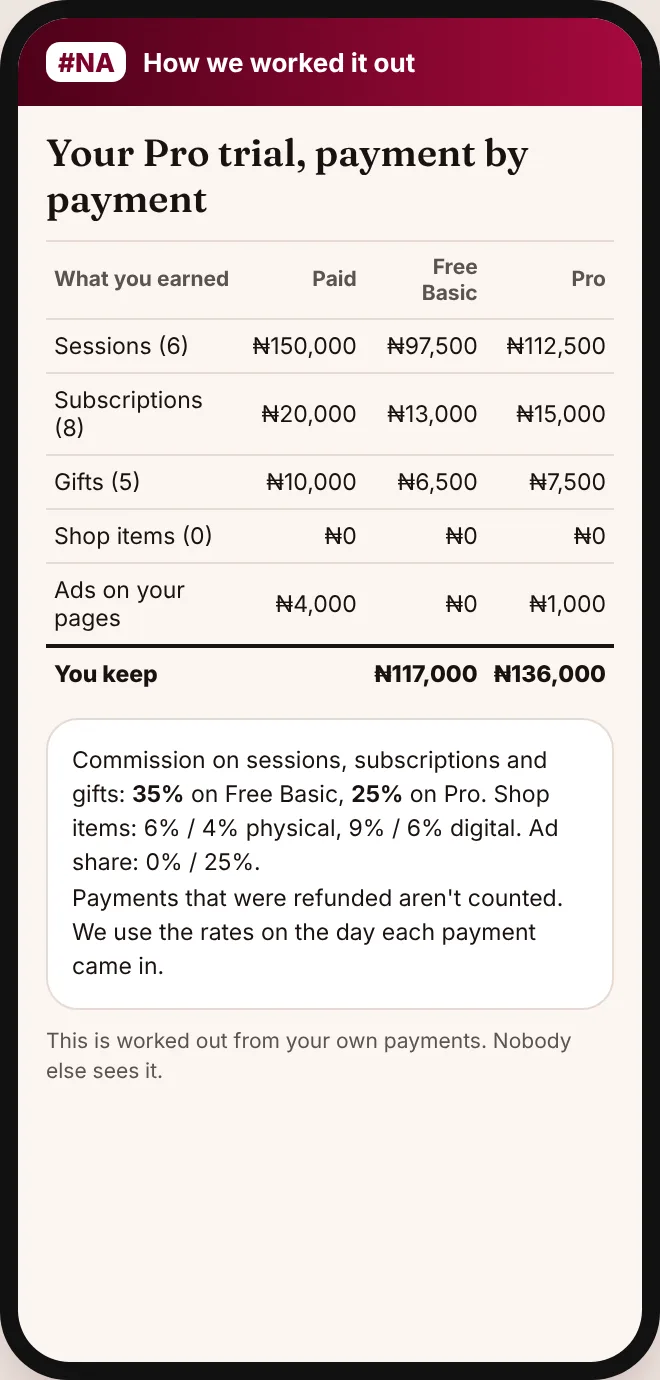
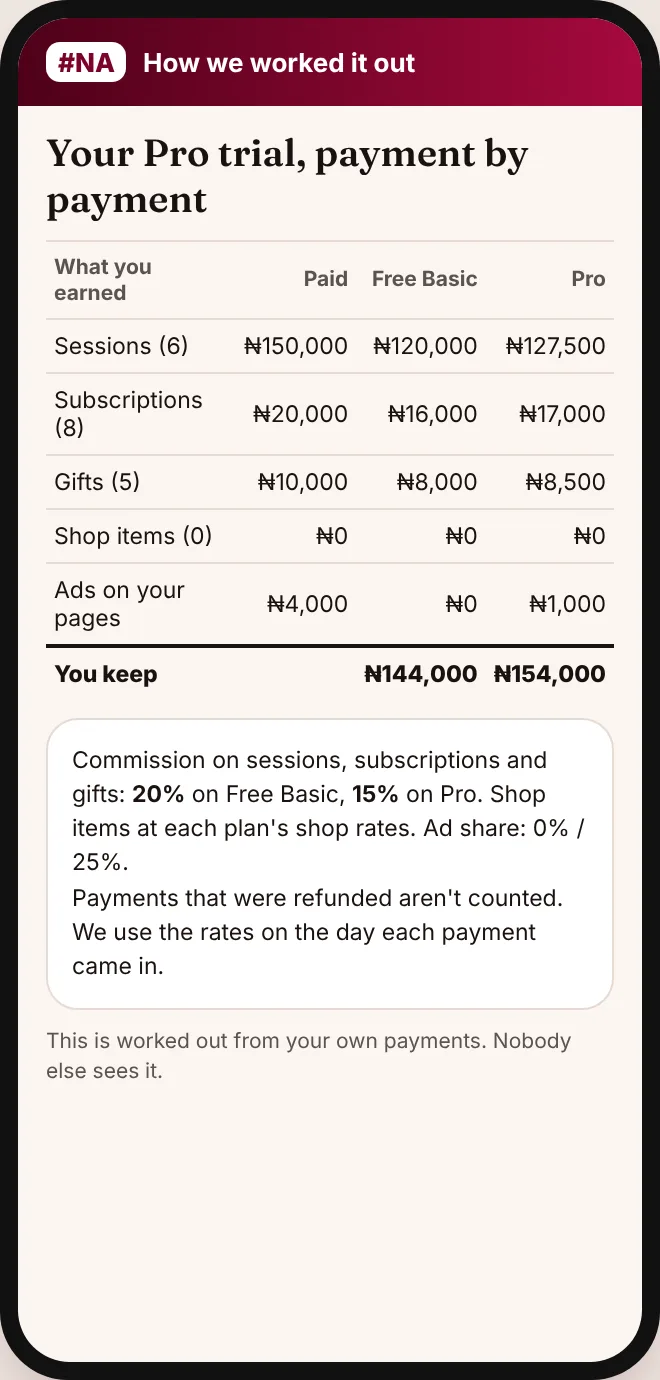
Trial mockup uses the live rates (Free Basic 20%, Pro 15%, Business 8%)
Claude-Session: https://claude.ai/code/session_015eFZVEguH7cqgkacv7ATYv

diff --git a/docs/mockups/trial-earnings/mockups.html b/docs/mockups/trial-earnings/mockups.html
@@ -50,7 +50,7 @@ h1{font-family:Fraunces,serif;font-weight:600;font-size:30px;text-align:center}
 .t tr.tot td{font-weight:800;border-top:2px solid var(--ink)}
 </style></head><body>
 <h1>The end of a free trial: what you kept</h1>
-<p class="lede">Sample screens for the owner (24 Nov 2026). The pricing page doesn't do the commission maths up front (owner's choice). Instead, once someone tries Pro or Business free for 15 days, #NotesApp works it out from their real earnings in the trial: what they kept on the plan, next to what they'd have kept on their own plan. When the plan doesn't pay yet, the card says so. All figures here are sample figures at the default rates in code (Free Basic 35% and Pro 25% on sessions, subscriptions and gifts; ad share 0% and 25%); the real card uses the live rates in Admin → Pricing.</p>
+<p class="lede">Sample screens for the owner (24 Nov 2026). The pricing page doesn't do the commission maths up front (owner's choice). Instead, once someone tries Pro or Business free for 15 days, #NotesApp works it out from their real earnings in the trial: what they kept on the plan, next to what they'd have kept on their own plan. When the plan doesn't pay yet, the card says so. All figures here are sample figures at today's live rates (Free Basic 20% and Pro 15% commission on sessions, subscriptions and gifts; ad share 0% and 25%; Pro ₦5,000 a month). The real card reads the rates from Admin → Pricing.</p>
 <div class="grid">
 
 <div class="item"><div class="ph"><div class="sc">
@@ -60,7 +60,7 @@ h1{font-family:Fraunces,serif;font-weight:600;font-size:30px;text-align:center}
     <div class="card" style="border-color:var(--crimson)">
       <div style="display:flex;justify-content:space-between;font-size:12px;font-weight:700"><span>Pro trial</span><span style="color:var(--slate)">day 9 of 15</span></div>
       <div class="prog" style="margin:8px 0"><div style="width:60%"></div></div>
-      <p style="font-size:13px;line-height:1.45">So far on Pro you've kept <b>₦11,200 more</b> than you would have on Free Basic.</p>
+      <p style="font-size:13px;line-height:1.45">So far on Pro you've kept <b>₦5,600 more</b> than you would have on Free Basic.</p>
       <p class="mini" style="margin-top:4px">From ₦112,000 you earned in sessions, subscriptions and gifts since 16 Nov.</p>
       <p style="font-size:12px;font-weight:700;color:var(--crimson);margin-top:6px">See how we worked it out →</p>
     </div>
@@ -75,16 +75,16 @@ h1{font-family:Fraunces,serif;font-weight:600;font-size:30px;text-align:center}
   <div class="top"><span class="logo">#NA</span>Your Pro trial has ended</div>
   <div class="pad">
     <span class="eyebrow">16 Nov – 30 Nov · 15 days</span>
-    <p class="big">Pro kept you ₦19,000 more.</p>
+    <p class="big">Pro kept you ₦10,000 more.</p>
     <p class="sub">You earned ₦180,000 in sessions, subscriptions and gifts, and ₦4,000 of ads ran on your pages.</p>
     <div class="card cmp">
-      <div class="bar"><span>Free Basic</span><i style="width:118px"></i><b>₦117,000</b></div>
-      <div class="bar"><span>Pro</span><i class="c" style="width:136px"></i><b>₦136,000</b></div>
+      <div class="bar"><span>Free Basic</span><i style="width:126px"></i><b>₦144,000</b></div>
+      <div class="bar"><span>Pro</span><i class="c" style="width:135px"></i><b>₦154,000</b></div>
       <p class="mini">What you keep after commission, plus your ad share.</p>
     </div>
     <div class="row" style="border-top:0"><span>Pro costs</span><b>₦5,000 a month</b></div>
-    <div class="row"><span>At this pace, Pro gives you back</span><b>about ₦38,000 a month</b></div>
-    <div class="ok">Pro paid for itself <b>about 7 times over</b> in your trial.</div>
+    <div class="row"><span>At this pace, Pro gives you back</span><b>about ₦20,000 a month</b></div>
+    <div class="ok">Pro paid for itself <b>4 times over</b> in your trial.</div>
     <span class="btn pri full">Keep Pro · ₦5,000 a month</span>
     <span class="btn sec full">Go back to Free Basic</span>
     <p class="mini" style="text-align:center">See how we worked it out</p>
@@ -97,12 +97,12 @@ h1{font-family:Fraunces,serif;font-weight:600;font-size:30px;text-align:center}
   <div class="pad">
     <span class="eyebrow">16 Nov – 30 Nov · 15 days</span>
     <p class="big">Free Basic suits you for now.</p>
-    <p class="sub">You earned ₦18,000 in sessions in your trial. On Pro you kept ₦1,800 more than on Free Basic, and 15 days of Pro cost about ₦2,500.</p>
+    <p class="sub">You earned ₦18,000 in sessions in your trial. On Pro you kept ₦900 more than on Free Basic, and 15 days of Pro cost about ₦2,500.</p>
     <div class="card cmp">
-      <div class="bar"><span>Free Basic</span><i style="width:117px"></i><b>₦11,700</b></div>
-      <div class="bar"><span>Pro</span><i class="c" style="width:135px"></i><b>₦13,500</b></div>
+      <div class="bar"><span>Free Basic</span><i style="width:127px"></i><b>₦14,400</b></div>
+      <div class="bar"><span>Pro</span><i class="c" style="width:135px"></i><b>₦15,300</b></div>
     </div>
-    <div class="note">Pro pays for itself once you earn about <b>₦50,000 a month</b> in sessions, subscriptions and gifts. We'll tell you when you get there.</div>
+    <div class="note">Pro pays for itself once you earn about <b>₦100,000 a month</b> in sessions, subscriptions and gifts. We'll tell you when you get there.</div>
     <p class="sub">You keep everything you made on Pro: your courses, co-authored posts and drafts stay where they are.</p>
     <span class="btn pri full">Stay on Free Basic</span>
     <span class="btn sec full">Get Pro anyway</span>
@@ -116,15 +116,15 @@ h1{font-family:Fraunces,serif;font-weight:600;font-size:30px;text-align:center}
     <p class="h2">Your Pro trial, payment by payment</p>
     <table class="t">
       <tr><th>What you earned</th><th>Paid</th><th>Free Basic</th><th>Pro</th></tr>
-      <tr><td>Sessions (6)</td><td>₦150,000</td><td>₦97,500</td><td>₦112,500</td></tr>
-      <tr><td>Subscriptions (8)</td><td>₦20,000</td><td>₦13,000</td><td>₦15,000</td></tr>
-      <tr><td>Gifts (5)</td><td>₦10,000</td><td>₦6,500</td><td>₦7,500</td></tr>
+      <tr><td>Sessions (6)</td><td>₦150,000</td><td>₦120,000</td><td>₦127,500</td></tr>
+      <tr><td>Subscriptions (8)</td><td>₦20,000</td><td>₦16,000</td><td>₦17,000</td></tr>
+      <tr><td>Gifts (5)</td><td>₦10,000</td><td>₦8,000</td><td>₦8,500</td></tr>
       <tr><td>Shop items (0)</td><td>₦0</td><td>₦0</td><td>₦0</td></tr>
       <tr><td>Ads on your pages</td><td>₦4,000</td><td>₦0</td><td>₦1,000</td></tr>
-      <tr class="tot"><td>You keep</td><td></td><td>₦117,000</td><td>₦136,000</td></tr>
+      <tr class="tot"><td>You keep</td><td></td><td>₦144,000</td><td>₦154,000</td></tr>
     </table>
     <div class="card" style="font-size:11.5px;line-height:1.5">
-      Commission on sessions, subscriptions and gifts: <b>35%</b> on Free Basic, <b>25%</b> on Pro. Shop items: 6% / 4% physical, 9% / 6% digital. Ad share: 0% / 25%.<br>
+      Commission on sessions, subscriptions and gifts: <b>20%</b> on Free Basic, <b>15%</b> on Pro. Shop items at each plan's shop rates. Ad share: 0% / 25%.<br>
       Payments that were refunded aren't counted. We use the rates on the day each payment came in.
     </div>
     <p class="mini">This is worked out from your own payments. Nobody else sees it.</p>

diff --git a/docs/GTM_DOORS_AND_TRIALS.md b/docs/GTM_DOORS_AND_TRIALS.md
@@ -38,8 +38,9 @@ Mockups: [trial-earnings/all-screens.webp](mockups/trial-earnings/all-screens.we
 - **Admin → Growth → Trials:** trials ended, paid after, the commission given up in trials against the plan payments that followed, and
   whether members who trialled stay longer (the week-4 view).
 
-The sample figures use the rates in `lib/tiers.ts` (sessions 35% on Free Basic, 25% on Pro). The real card reads the live rates from Admin →
-Pricing.
+The sample figures use the live rates on 25 Nov 2026 (Free Basic 20%, Pro ₦5,000 at 15%, Business ₦25,000 at 8%, Enterprise from ₦55,000
+and 6%). The real card reads them from Admin → Pricing. At these rates Pro pays for itself from about ₦100,000 a month of sessions,
+subscriptions and gifts, and Business from about ₦210,000.
 
 ## Decisions for the owner
 
